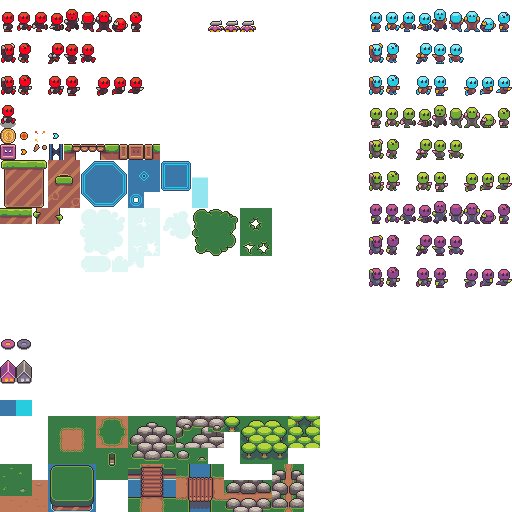
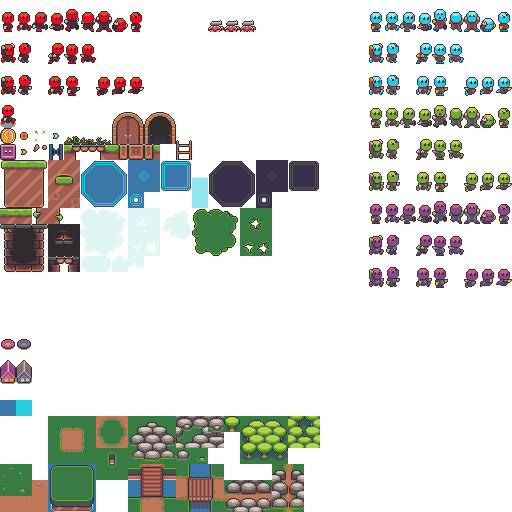
Added internior tileset, ladder, door, brambles

diff --git a/Art Kits/Platformer/FRBPlatformerTileset.tsx b/Art Kits/Platformer/FRBPlatformerTileset.tsx
@@ -11,6 +11,8 @@
   <terrain name="PlatformBackground" tile="327"/>
   <terrain name="PlatformClouds" tile="489"/>
   <terrain name="PlatformBushes" tile="496"/>
+  <terrain name="PlatformBrick" tile="450"/>
+  <terrain name="PlatformBackgroundDark" tile="335"/>
  </terraintypes>
  <tile id="320" terrain=",,,5"/>
  <tile id="321" terrain=",,5,5"/>
@@ -24,6 +26,13 @@
  <tile id="329" terrain="6,6,,6"/>
  <tile id="330" terrain=",,,6"/>
  <tile id="331" terrain=",,6,"/>
+ <tile id="333" terrain=",,,10"/>
+ <tile id="334" terrain=",,10,10"/>
+ <tile id="335" terrain=",,10,"/>
+ <tile id="336" terrain="10,10,10,"/>
+ <tile id="337" terrain="10,10,,10"/>
+ <tile id="338" terrain=",,,10"/>
+ <tile id="339" terrain=",,10,"/>
  <tile id="352" terrain=",5,,5"/>
  <tile id="353" terrain="5,5,5,5"/>
  <tile id="354" terrain="5,,5,"/>
@@ -36,6 +45,13 @@
  <tile id="361" terrain=",6,6,6"/>
  <tile id="362" terrain=",6,,"/>
  <tile id="363" terrain="6,,,"/>
+ <tile id="365" terrain=",10,,10"/>
+ <tile id="366" terrain="10,10,10,10"/>
+ <tile id="367" terrain="10,,10,"/>
+ <tile id="368" terrain="10,,10,10"/>
+ <tile id="369" terrain=",10,10,10"/>
+ <tile id="370" terrain=",10,,"/>
+ <tile id="371" terrain="10,,,"/>
  <tile id="384" terrain=",5,,"/>
  <tile id="385" terrain="5,5,,"/>
  <tile id="386" terrain="5,,,"/>
@@ -45,6 +61,10 @@
  <tile id="390" terrain="6,6,,"/>
  <tile id="391" terrain="6,,,"/>
  <tile id="392" terrain="6,6,6,6" probability="0.01"/>
+ <tile id="397" terrain=",10,,"/>
+ <tile id="398" terrain="10,10,,"/>
+ <tile id="399" terrain="10,,,"/>
+ <tile id="400" terrain="10,10,10,10" probability="0.01"/>
  <tile id="416" terrain=",,5,5" probability="0.2"/>
  <tile id="417" terrain=",,5,5" probability="0.2"/>
  <tile id="418" terrain=",5,,5" probability="0.05"/>
@@ -61,6 +81,11 @@
  <tile id="430" terrain=",,8,"/>
  <tile id="431" terrain="8,8,8,"/>
  <tile id="432" terrain="8,8,,8"/>
+ <tile id="448" terrain=",,,9"/>
+ <tile id="449" terrain=",,9,9"/>
+ <tile id="450" terrain=",,9,"/>
+ <tile id="451" terrain="9,9,9,"/>
+ <tile id="452" terrain="9,9,,9"/>
  <tile id="453" terrain=",7,,7"/>
  <tile id="454" terrain="7,7,7,7"/>
  <tile id="455" terrain="7,,7,"/>
@@ -73,6 +98,11 @@
  <tile id="462" terrain="8,,8,"/>
  <tile id="463" terrain="8,,8,8"/>
  <tile id="464" terrain=",8,8,8"/>
+ <tile id="480" terrain=",9,,9"/>
+ <tile id="481" terrain="9,9,9,9"/>
+ <tile id="482" terrain="9,,9,"/>
+ <tile id="483" terrain="9,,9,9"/>
+ <tile id="484" terrain=",9,9,9"/>
  <tile id="485" terrain=",7,,"/>
  <tile id="486" terrain="7,7,,"/>
  <tile id="487" terrain="7,,,"/>
@@ -83,6 +113,9 @@
  <tile id="494" terrain="8,,,"/>
  <tile id="495" terrain="8,8,8,8" probability="0.01"/>
  <tile id="496" terrain="8,8,8,8" probability="0.01"/>
+ <tile id="512" terrain=",9,,"/>
+ <tile id="513" terrain="9,9,,"/>
+ <tile id="514" terrain="9,,,"/>
  <tile id="517" terrain=",7,,7"/>
  <tile id="518" terrain="7,,7,"/>
  <tile id="519" terrain=",,7,7"/>
